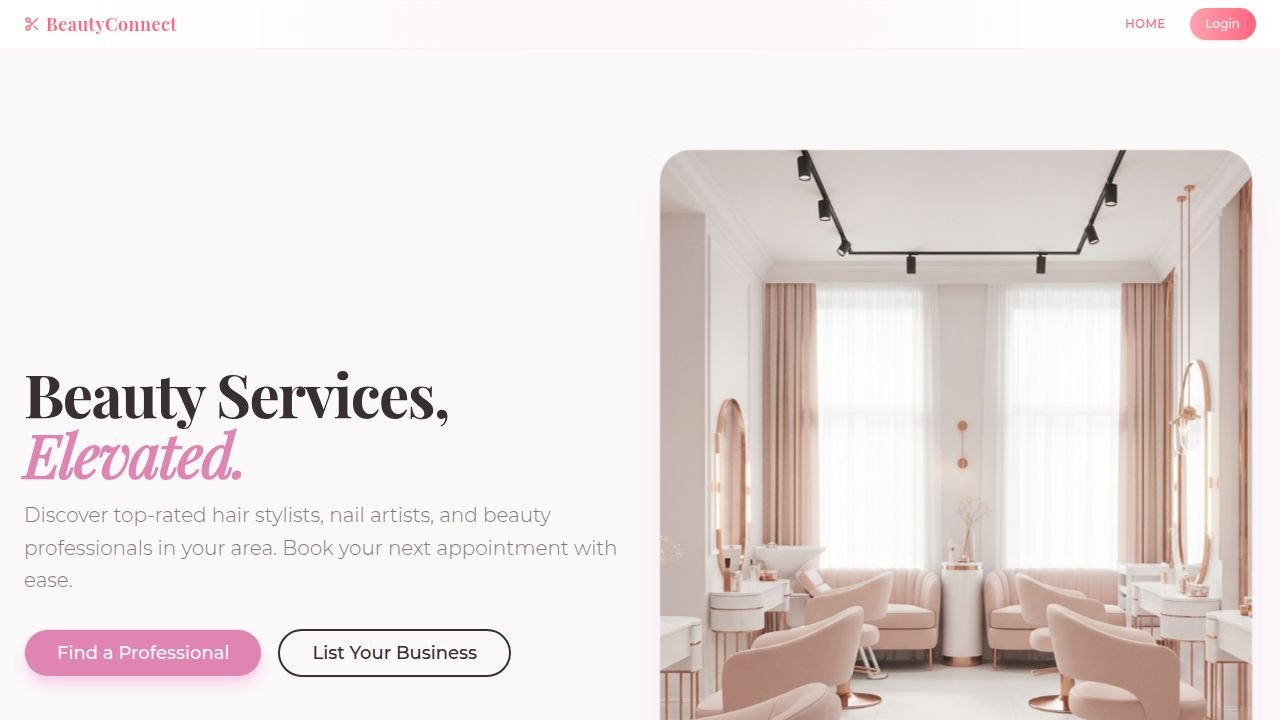
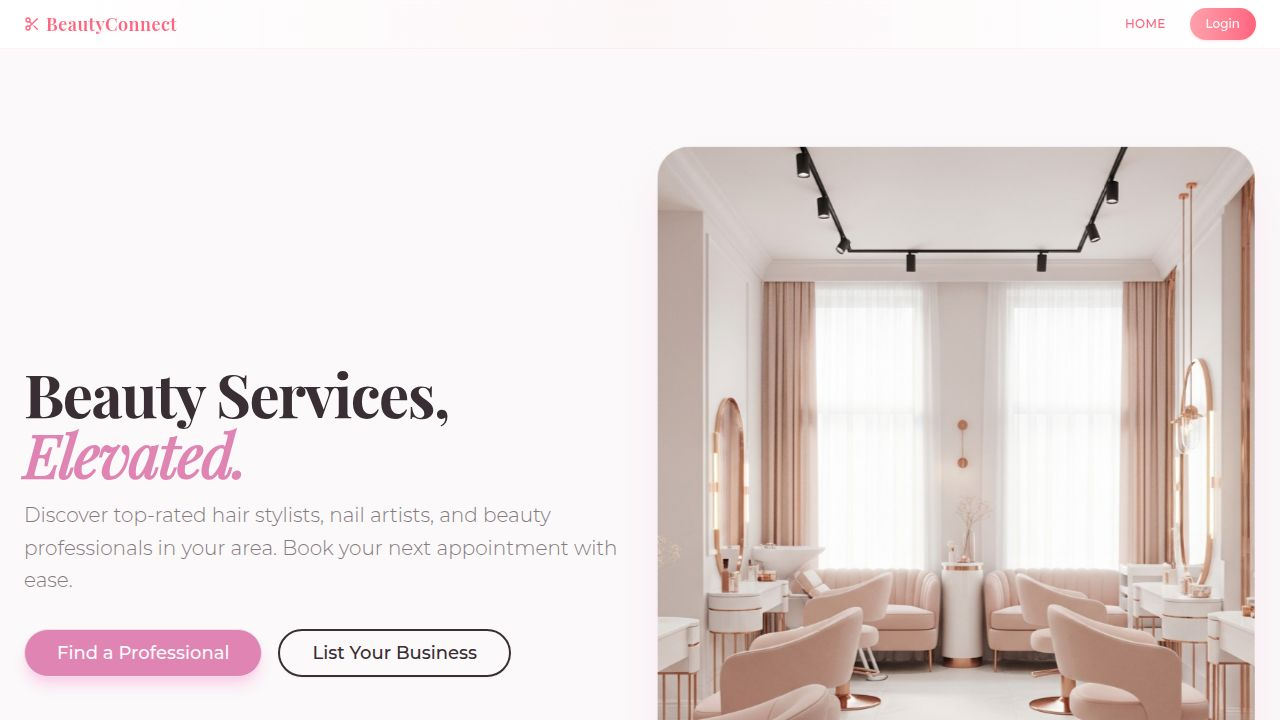
Add in-app notification system for booking reminders
Implement an in-app notification system by adding a database table for notifications, API routes for managing notifications, and a background scheduler to send booking reminders via `server/notificationScheduler.ts`.

Replit-Commit-Author: Agent
Replit-Commit-Session-Id: 8f74d6d3-f190-42ab-8d2c-fc08a7e75e3f
Replit-Commit-Checkpoint-Type: intermediate_checkpoint
Replit-Commit-Event-Id: 452b85ac-d2e3-42ef-8ce4-2f34b8d544ed
Replit-Commit-Screenshot-Url: https://storage.googleapis.com/screenshot-production-us-central1/6916b62e-c427-4971-b354-a0143b730342/8f74d6d3-f190-42ab-8d2c-fc08a7e75e3f/vBb0r3D
Replit-Helium-Checkpoint-Created: true

diff --git a/server/notificationScheduler.ts b/server/notificationScheduler.ts
@@ -1,0 +1,98 @@
+import { storage } from "./storage";
+import { log } from "./index";
+
+interface ReminderConfig {
+  type: string;
+  hoursBeforeMin: number;
+  hoursBeforeMax: number;
+  timeframeLabel: string;
+}
+
+const REMINDER_CONFIGS: ReminderConfig[] = [
+  { type: '7d', hoursBeforeMin: 168, hoursBeforeMax: 168 + 24, timeframeLabel: '7 days' },
+  { type: '3d', hoursBeforeMin: 72, hoursBeforeMax: 72 + 24, timeframeLabel: '3 days' },
+  { type: '48h', hoursBeforeMin: 48, hoursBeforeMax: 72, timeframeLabel: '48 hours' },
+  { type: '24h', hoursBeforeMin: 24, hoursBeforeMax: 48, timeframeLabel: '24 hours' },
+];
+
+function formatDate(date: Date): string {
+  return date.toLocaleDateString('en-US', {
+    weekday: 'long',
+    year: 'numeric',
+    month: 'long',
+    day: 'numeric',
+    hour: 'numeric',
+    minute: '2-digit',
+  });
+}
+
+export async function checkAndCreateReminders(): Promise<void> {
+  try {
+    const upcomingBookings = await storage.getUpcomingBookingsForReminders();
+    const now = new Date();
+
+    for (const booking of upcomingBookings) {
+      const bookingDate = new Date(booking.date);
+      const hoursUntilBooking = (bookingDate.getTime() - now.getTime()) / (1000 * 60 * 60);
+
+      const business = await storage.getBusiness(booking.businessId);
+      const client = await storage.getUser(booking.clientId);
+
+      if (!business || !client) {
+        continue;
+      }
+
+      for (const config of REMINDER_CONFIGS) {
+        if (hoursUntilBooking >= config.hoursBeforeMin && hoursUntilBooking < config.hoursBeforeMax) {
+          const clientReminderSent = await storage.hasReminderBeenSent(
+            booking.id,
+            booking.clientId,
+            config.type
+          );
+
+          if (!clientReminderSent) {
+            await storage.createNotification({
+              userId: booking.clientId,
+              bookingId: booking.id,
+              type: 'reminder',
+              title: 'Upcoming Appointment Reminder',
+              message: `Your appointment for ${booking.serviceName} at ${business.name} is in ${config.timeframeLabel}. Date: ${formatDate(bookingDate)}`,
+              reminderType: config.type,
+            });
+            log(`Created ${config.type} reminder for client ${client.username} for booking ${booking.id}`, 'scheduler');
+          }
+
+          const businessReminderSent = await storage.hasReminderBeenSent(
+            booking.id,
+            business.ownerId,
+            config.type
+          );
+
+          if (!businessReminderSent) {
+            await storage.createNotification({
+              userId: business.ownerId,
+              bookingId: booking.id,
+              type: 'reminder',
+              title: 'Upcoming Appointment Reminder',
+              message: `Reminder: ${client.username} has an appointment for ${booking.serviceName} in ${config.timeframeLabel}. Date: ${formatDate(bookingDate)}`,
+              reminderType: config.type,
+            });
+            log(`Created ${config.type} reminder for business owner of ${business.name} for booking ${booking.id}`, 'scheduler');
+          }
+        }
+      }
+    }
+  } catch (error) {
+    log(`Error in checkAndCreateReminders: ${error}`, 'scheduler');
+  }
+}
+
+export function startNotificationScheduler(): void {
+  log('Starting notification scheduler (runs every hour)', 'scheduler');
+  
+  checkAndCreateReminders();
+  
+  setInterval(() => {
+    checkAndCreateReminders();
+  }, 60 * 60 * 1000);
+}

diff --git a/server/storage.ts b/server/storage.ts
@@ -9,10 +9,11 @@ import {
   type PortfolioComment, type InsertPortfolioComment,
   type Message, type InsertMessage,
   type Tip, type InsertTip,
-  users, businesses, bookings, reviews, clientReviews, portfolioItems, portfolioLikes, portfolioComments, messages, tips
+  type Notification, type InsertNotification,
+  users, businesses, bookings, reviews, clientReviews, portfolioItems, portfolioLikes, portfolioComments, messages, tips, notifications
 } from "@shared/schema";
 import { db } from "../db";
-import { eq, and, desc, sql } from "drizzle-orm";
+import { eq, and, desc, sql, gt } from "drizzle-orm";
 
 export interface IStorage {
   getUser(id: string): Promise<User | undefined>;
@@ -60,6 +61,14 @@ export interface IStorage {
   canBusinessReviewClient(bookingId: string, businessOwnerId: string): Promise<boolean>;
   createClientReview(review: InsertClientReview): Promise<ClientReview>;
   updateBookingDeposit(id: string, depositPaid: boolean, stripePaymentIntentId?: string): Promise<Booking | undefined>;
+  
+  getNotificationsByUser(userId: string): Promise<Notification[]>;
+  getUnreadNotificationCount(userId: string): Promise<number>;
+  markNotificationRead(id: string): Promise<Notification | undefined>;
+  markAllNotificationsRead(userId: string): Promise<void>;
+  createNotification(notification: InsertNotification): Promise<Notification>;
+  getUpcomingBookingsForReminders(): Promise<Booking[]>;
+  hasReminderBeenSent(bookingId: string, userId: string, reminderType: string): Promise<boolean>;
 }
 
 export class DatabaseStorage implements IStorage {
@@ -282,6 +291,58 @@ export class DatabaseStorage implements IStorage {
     }
     const result = await db.update(bookings).set(updateData).where(eq(bookings.id, id)).returning();
     return result[0];
+  }
+
+  async getNotificationsByUser(userId: string): Promise<Notification[]> {
+    return db.select().from(notifications)
+      .where(eq(notifications.userId, userId))
+      .orderBy(desc(notifications.createdAt));
+  }
+
+  async getUnreadNotificationCount(userId: string): Promise<number> {
+    const result = await db.select({ count: sql<number>`count(*)` })
+      .from(notifications)
+      .where(and(eq(notifications.userId, userId), eq(notifications.read, false)));
+    return Number(result[0]?.count || 0);
+  }
+
+  async markNotificationRead(id: string): Promise<Notification | undefined> {
+    const result = await db.update(notifications)
+      .set({ read: true })
+      .where(eq(notifications.id, id))
+      .returning();
+    return result[0];
+  }
+
+  async markAllNotificationsRead(userId: string): Promise<void> {
+    await db.update(notifications)
+      .set({ read: true })
+      .where(eq(notifications.userId, userId));
+  }
+
+  async createNotification(notification: InsertNotification): Promise<Notification> {
+    const result = await db.insert(notifications).values(notification).returning();
+    return result[0];
+  }
+
+  async getUpcomingBookingsForReminders(): Promise<Booking[]> {
+    const now = new Date();
+    return db.select().from(bookings)
+      .where(and(
+        eq(bookings.status, 'confirmed'),
+        gt(bookings.date, now)
+      ));
+  }
+
+  async hasReminderBeenSent(bookingId: string, userId: string, reminderType: string): Promise<boolean> {
+    const result = await db.select().from(notifications)
+      .where(and(
+        eq(notifications.bookingId, bookingId),
+        eq(notifications.userId, userId),
+        eq(notifications.reminderType, reminderType)
+      ))
+      .limit(1);
+    return result.length > 0;
   }
 }
 

diff --git a/server/routes.ts b/server/routes.ts
@@ -675,5 +675,44 @@ export async function registerRoutes(
     }
   });
 
+  app.get("/api/notifications", requireAuth, async (req, res, next) => {
+    try {
+      const notifications = await storage.getNotificationsByUser(req.user!.id);
+      res.json(notifications);
+    } catch (error) {
+      next(error);
+    }
+  });
+
+  app.get("/api/notifications/unread-count", requireAuth, async (req, res, next) => {
+    try {
+      const count = await storage.getUnreadNotificationCount(req.user!.id);
+      res.json({ count });
+    } catch (error) {
+      next(error);
+    }
+  });
+
+  app.patch("/api/notifications/:id/read", requireAuth, async (req, res, next) => {
+    try {
+      const notification = await storage.markNotificationRead(req.params.id);
+      if (!notification) {
+        return res.status(404).json({ message: "Notification not found" });
+      }
+      res.json(notification);
+    } catch (error) {
+      next(error);
+    }
+  });
+
+  app.patch("/api/notifications/read-all", requireAuth, async (req, res, next) => {
+    try {
+      await storage.markAllNotificationsRead(req.user!.id);
+      res.json({ message: "All notifications marked as read" });
+    } catch (error) {
+      next(error);
+    }
+  });
+
   return httpServer;
 }

diff --git a/shared/schema.ts b/shared/schema.ts
@@ -108,6 +108,18 @@ export const tips = pgTable("tips", {
   createdAt: timestamp("created_at").defaultNow().notNull(),
 });
 
+export const notifications = pgTable("notifications", {
+  id: varchar("id").primaryKey().default(sql`gen_random_uuid()`),
+  userId: varchar("user_id").notNull().references(() => users.id),
+  bookingId: varchar("booking_id").references(() => bookings.id),
+  type: text("type").notNull(),
+  title: text("title").notNull(),
+  message: text("message").notNull(),
+  read: boolean("read").notNull().default(false),
+  reminderType: text("reminder_type"),
+  createdAt: timestamp("created_at").defaultNow().notNull(),
+});
+
 export const insertUserSchema = createInsertSchema(users).omit({
   id: true,
   createdAt: true,
@@ -163,6 +175,12 @@ export const insertTipSchema = createInsertSchema(tips).omit({
   createdAt: true,
 });
 
+export const insertNotificationSchema = createInsertSchema(notifications).omit({
+  id: true,
+  createdAt: true,
+  read: true,
+});
+
 export type InsertUser = z.infer<typeof insertUserSchema>;
 export type User = typeof users.$inferSelect;
 
@@ -192,3 +210,6 @@ export type Message = typeof messages.$inferSelect;
 
 export type InsertTip = z.infer<typeof insertTipSchema>;
 export type Tip = typeof tips.$inferSelect;
+
+export type InsertNotification = z.infer<typeof insertNotificationSchema>;
+export type Notification = typeof notifications.$inferSelect;

diff --git a/server/index.ts b/server/index.ts
@@ -5,6 +5,7 @@ import { createServer } from "http";
 import { runMigrations } from 'stripe-replit-sync';
 import { getStripeSync } from "./stripeClient";
 import { WebhookHandlers } from "./webhookHandlers";
+import { startNotificationScheduler } from "./notificationScheduler";
 
 const app = express();
 const httpServer = createServer(app);
@@ -134,6 +135,8 @@ app.use((req, res, next) => {
 (async () => {
   await initStripe();
   await registerRoutes(httpServer, app);
+  
+  startNotificationScheduler();
 
   app.use((err: any, _req: Request, res: Response, _next: NextFunction) => {
     const status = err.status || err.statusCode || 500;